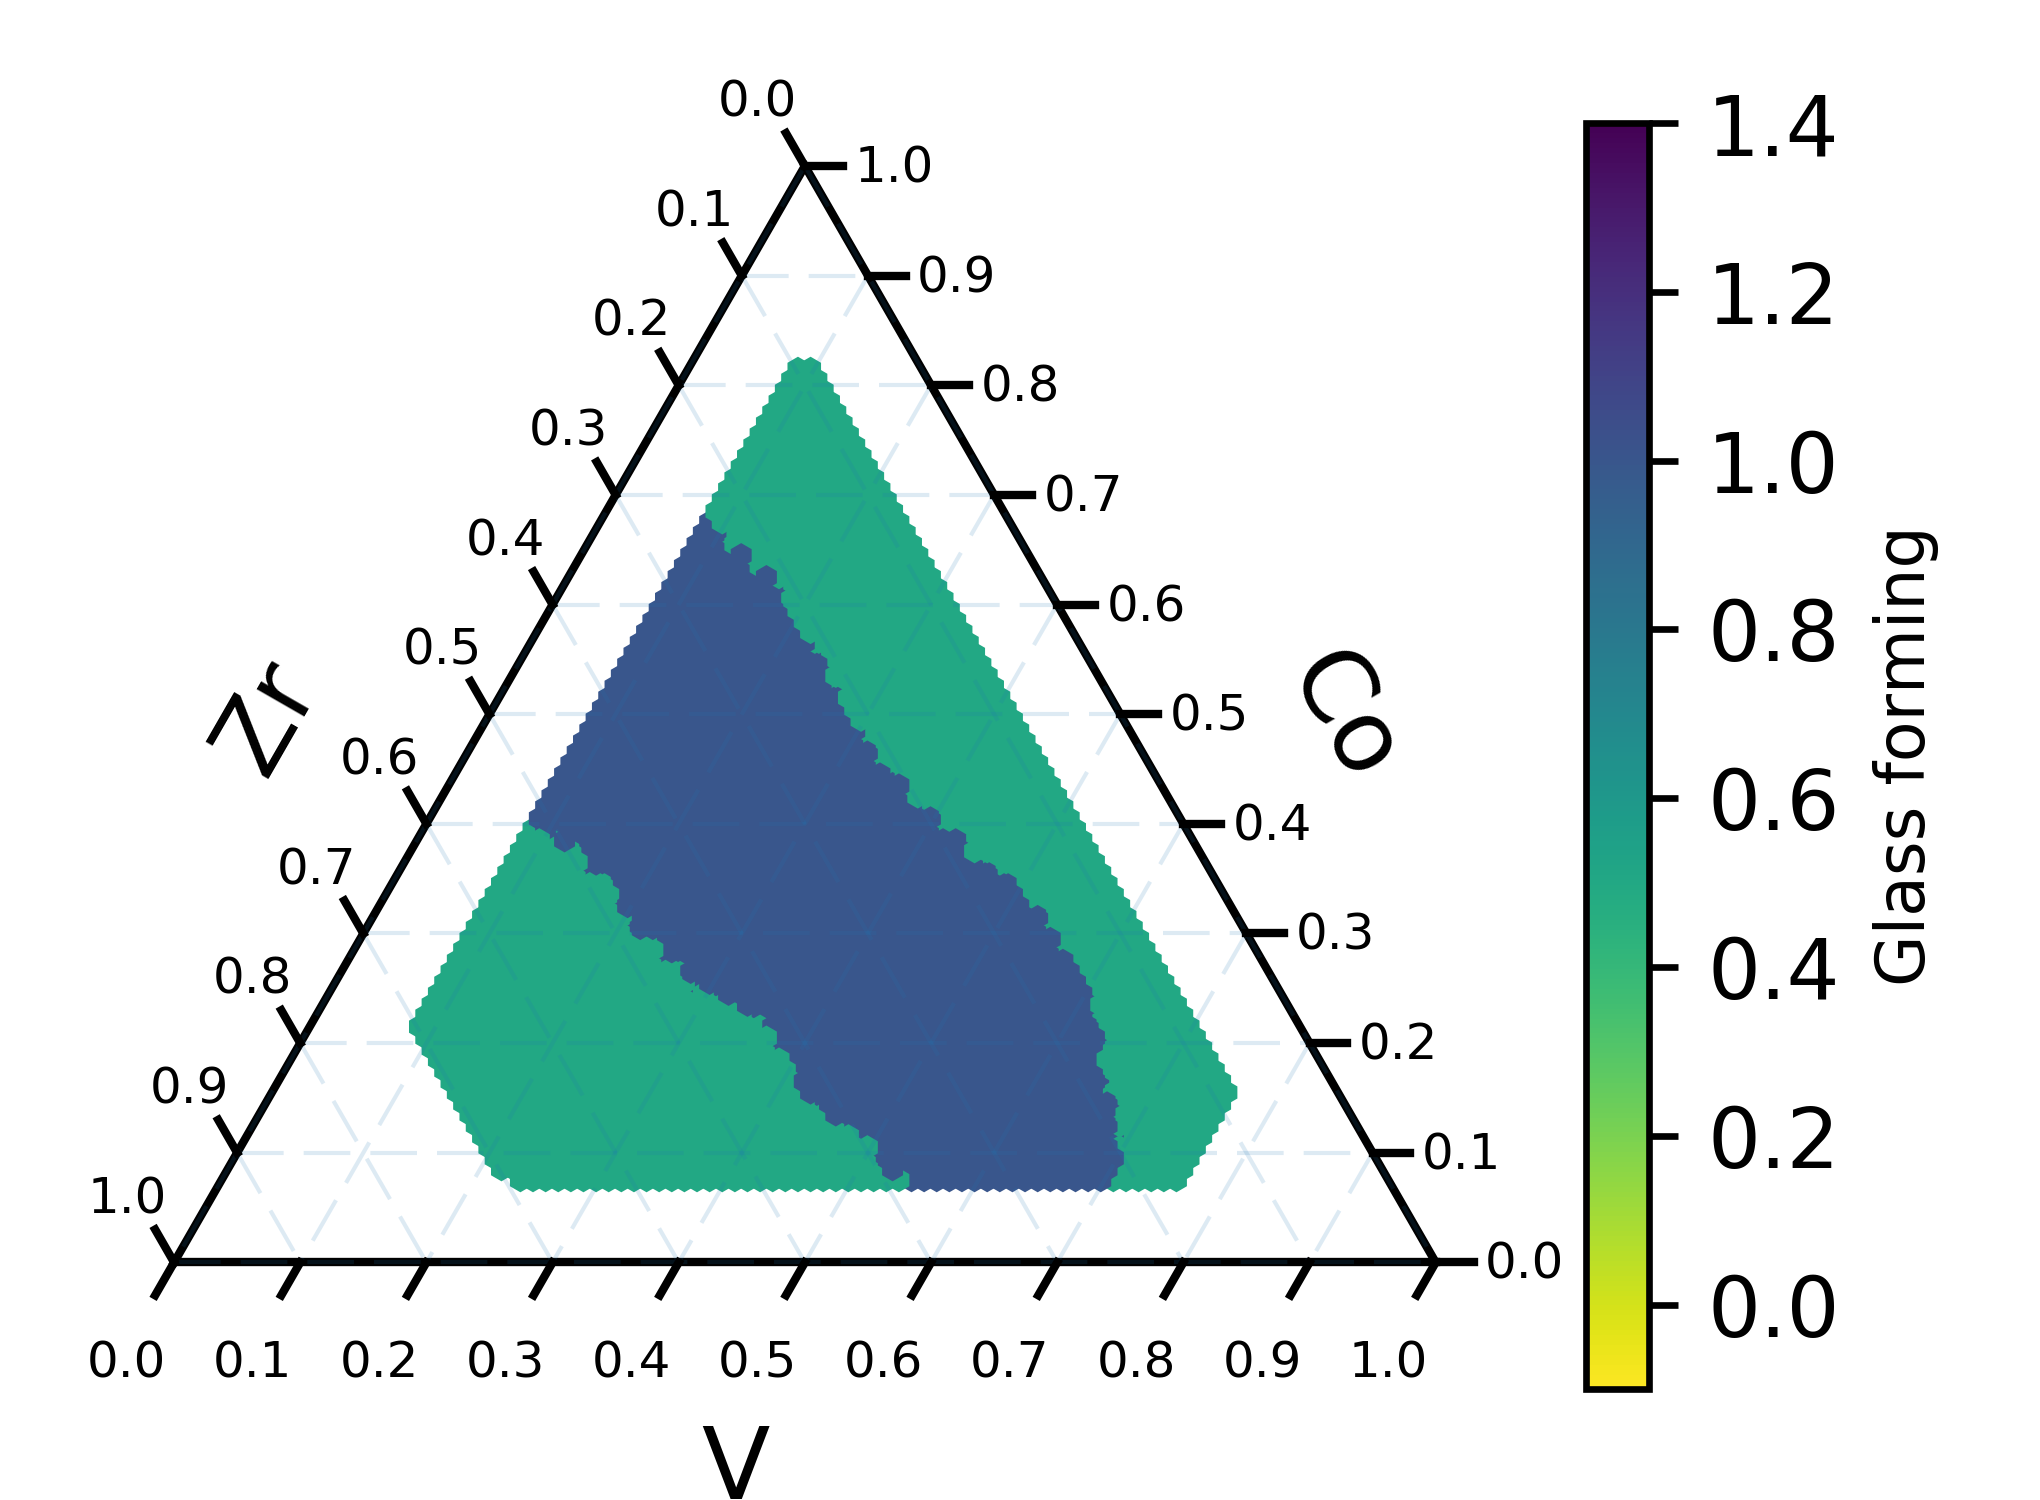
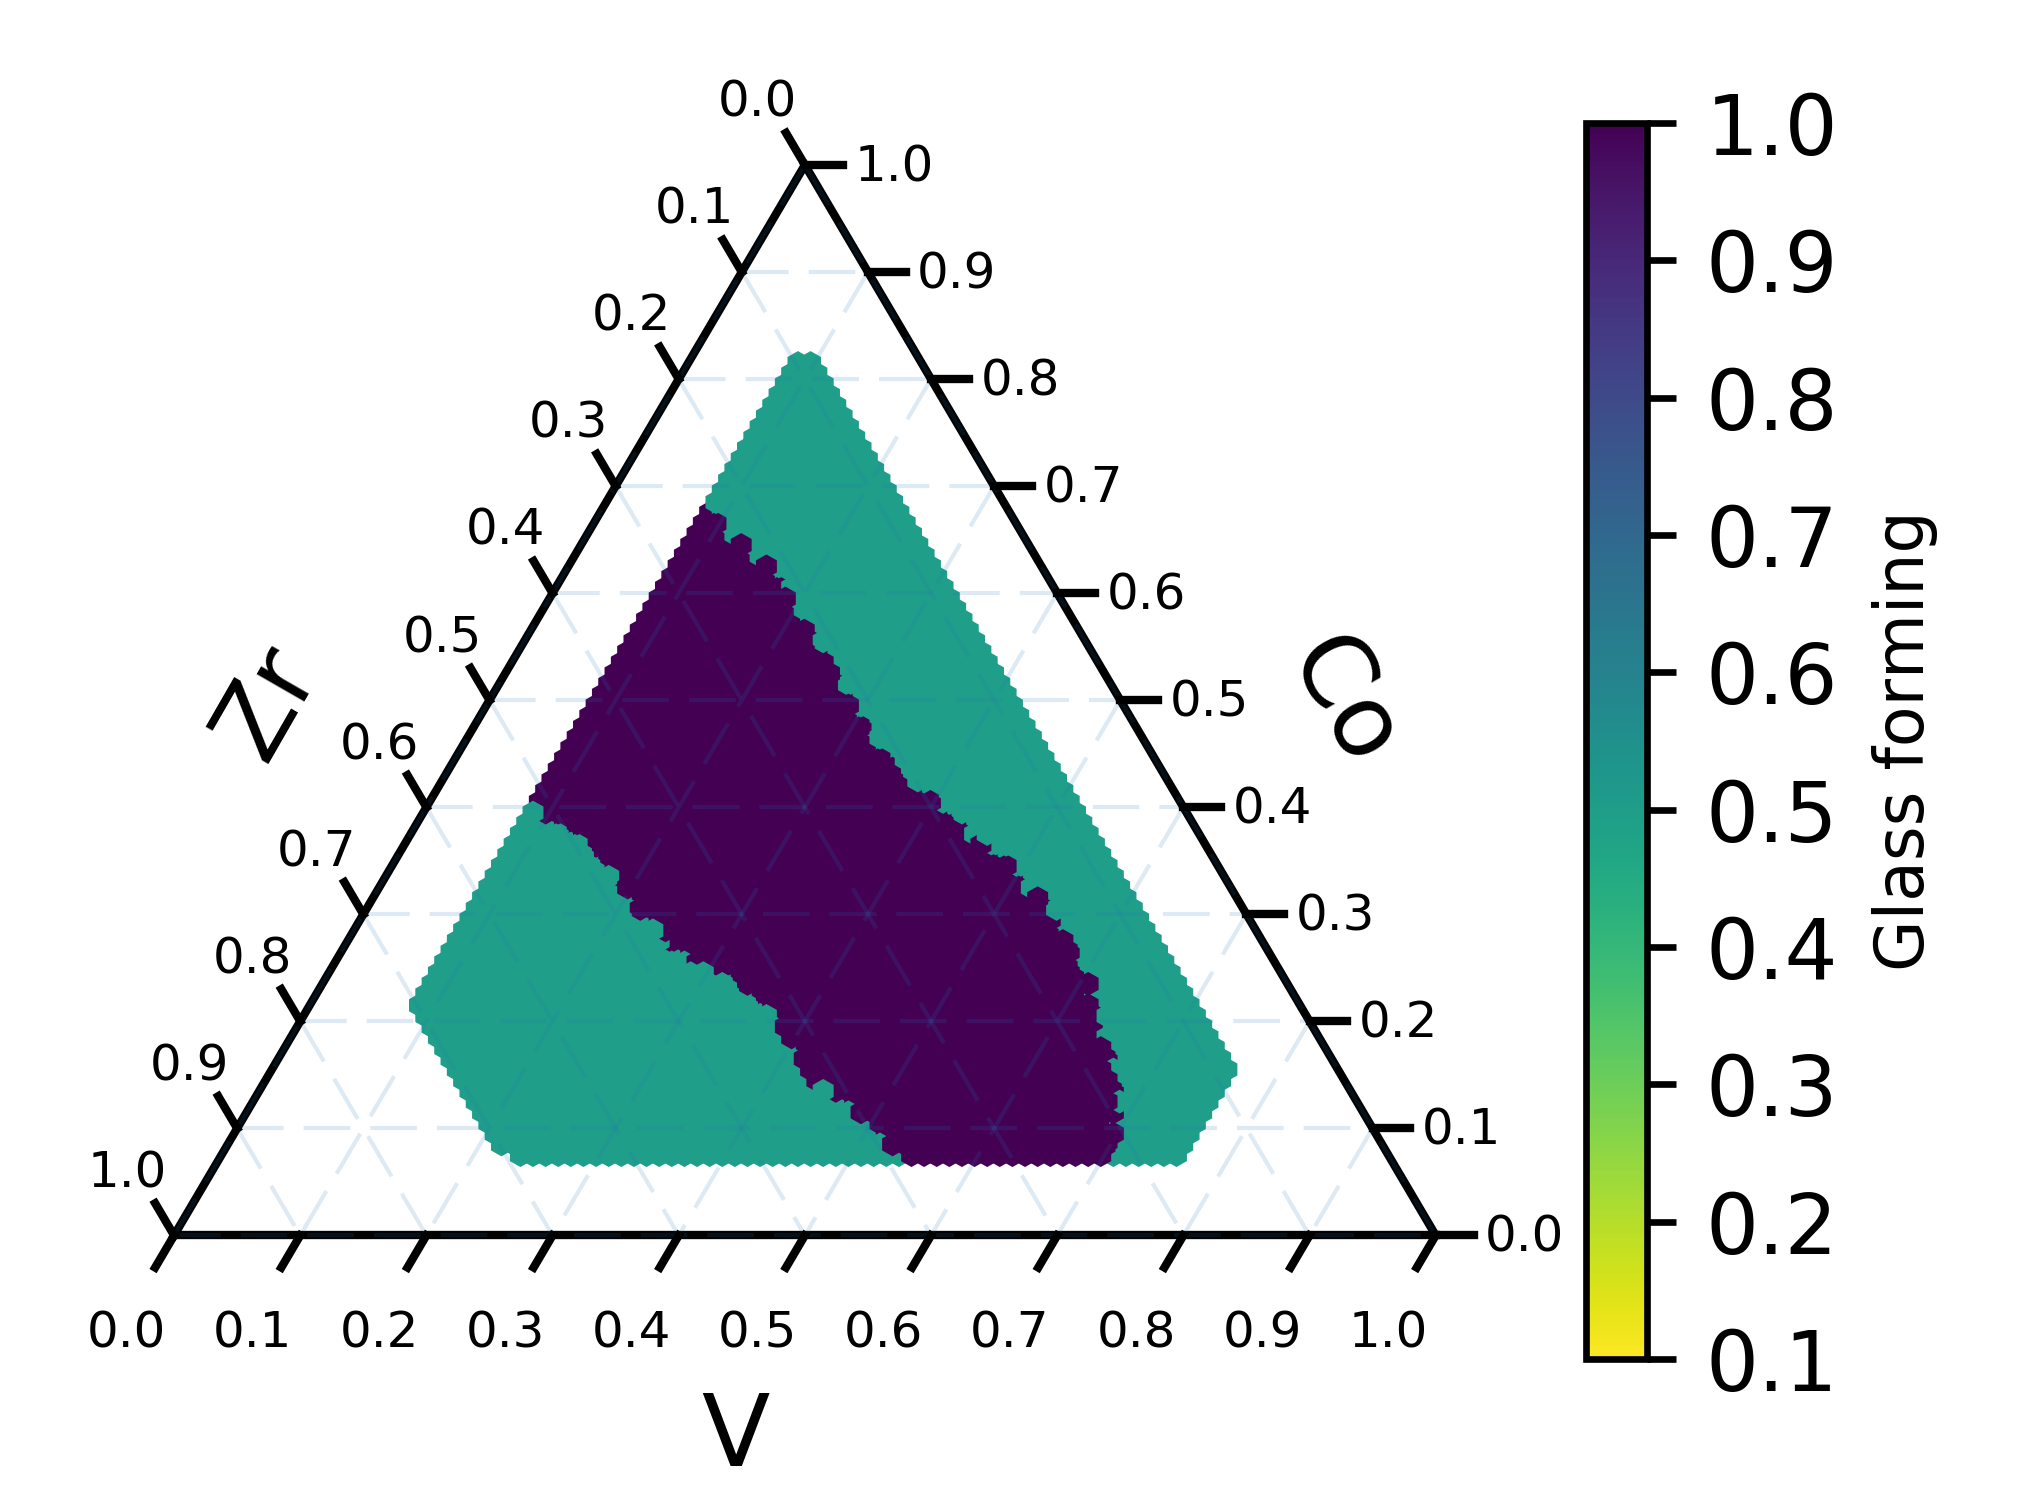
Make color scheme consistent

diff --git a/scripts/figure_plotters/Figure_melt_spin_data_reconstruction.py b/scripts/figure_plotters/Figure_melt_spin_data_reconstruction.py
@@ -25,7 +25,7 @@ def line(V1, Zr1, V2, Zr2):
     return a, b
 
 
-top = line(0.6, 0, 0, 0.6)
+top = line(0.4, 0, 0, 0.4)
 
 meltspin_file = '..//..//data//meltspin_data.csv'
 meltspin_data = np.genfromtxt(meltspin_file, delimiter=',')
@@ -38,6 +38,11 @@ print measured_label.shape, measured.shape
 measured = np.concatenate((measured, measured_label), axis = 1)
 print measured.shape
 
+binary = [[93, 0, 7, 1], [92, 0, 8, 1], [91, 0, 9, 1], [90, 0, 10, 1], [89, 0, 11, 1], [88, 0, 12, 1], [22, 0, 78, 1], [30, 0, 70, 1],
+          [36, 0, 64, 1], [53, 0, 47, 1]]
+
+measured = np.concatenate((measured, binary))
+
 for Zr in Zr_range:
     for V in V_range:
         Co = 100 - Zr - V
@@ -47,7 +52,7 @@ for Zr in Zr_range:
             Co_list.append(Co)
             # print (V, Zr)
             if V>=3 and top[0] * V + top[1] <= Zr:
-                label.append(0.4)
+                label.append(0.3)
             else:
                 label.append(0)
 
@@ -67,5 +72,5 @@ ternary_data = np.concatenate(([Co_list], [V_list], [Zr_list], [label]), axis=0)
 
 ternary_data = np.concatenate((ternary_data, measured))
 plotTernary.plt_ternary_save(ternary_data, tertitle='', labelNames=('Co', 'V', 'Zr'), scale=100,
-                             sv=True, svpth=save_path, svflnm= 'Figure_meltspin_reconstruction.png',
-                             cbl='Scale', vmax = 1, vmin = 0, cmap='gray_r', cb=True, style='h')
+                             sv=True, svpth=save_path, svflnm= 'Figure_meltspin_reconstruction_4.png',
+                             cbl='Scale', vmax = 1, vmin = 0, cmap='PuOr', cb=True, style='h')

diff --git a/scripts/figure_plotters/Figure3_CoVZr_low_power.py b/scripts/figure_plotters/Figure3_CoVZr_low_power.py
@@ -148,7 +148,7 @@ ternary_data = np.transpose(ternary_data)
 
 plotTernary.plt_ternary_save(ternary_data, tertitle='',  labelNames=('Co','V','Zr'), scale=100,
                        sv=True, svpth=save_path, svflnm='Figure3d',
-                       cbl='Glass forming', vmax = 1.4, vmin = -0.1, cmap='viridis_r', cb=True, style='h')
+                       cbl='Glass forming', vmax = 1, vmin = 0.1, cmap='viridis_r', cb=True, style='h')
 
 
 plt.close('all')

diff --git a/scripts/figure_plotters/Figure5_FeTiNb.py b/scripts/figure_plotters/Figure5_FeTiNb.py
@@ -167,7 +167,7 @@ ternary_data = np.transpose(ternary_data)
 
 plotTernary.plt_ternary_save(ternary_data, tertitle='',  labelNames=('Fe','Ti','Nb'), scale=100,
                        sv=True, svpth=save_path, svflnm='Figure5f',
-                       cbl='Scale', vmax = 1.4, vmin = -0.1, cmap='viridis_r', cb=True, style='h')
+                       cbl='Scale', vmax = 1, vmin = 0.1, cmap='viridis_r', cb=True, style='h')
 
 
 plt.close('all')
